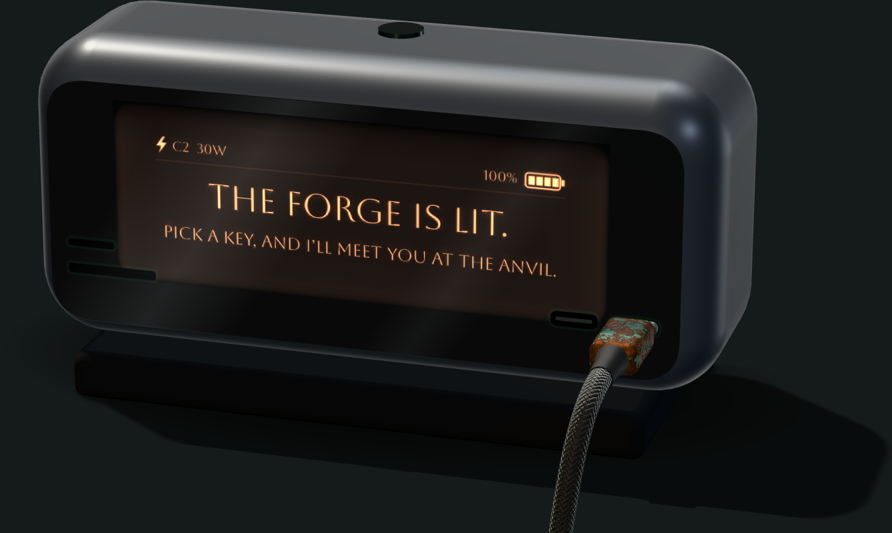
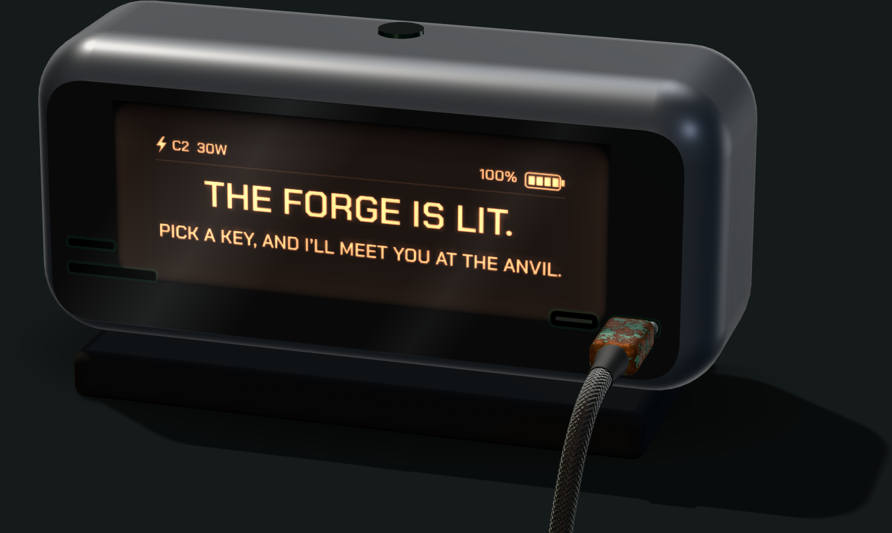
Hub display: Chakra Petch lettering (Mike's pick, option D)
The thin Aboreto made the screen's second line nearly unreadable. The display
now uses Chakra Petch 600, a squared digital face, rendered sharper. It lives
only inside the hub render; AGENTS records the exception.

Claude-Session: https://claude.ai/code/session_014kgsP4zXbR91SpjPr6JWR2

Changed region(s): [[0.1816, 0.3302, 0.6357, 0.5403], [0.1816, 0.2402, 0.2724, 0.3002], [0.5448, 0.3002, 0.5751, 0.3602]]

diff --git a/mockups/keys/render-hub.html b/mockups/keys/render-hub.html
@@ -1,6 +1,6 @@
 <!doctype html>
 <html><head><meta charset="utf-8">
-<link href="https://fonts.googleapis.com/css2?family=Cinzel:wght@700&family=Aboreto&display=swap" rel="stylesheet">
+<link href="https://fonts.googleapis.com/css2?family=Cinzel:wght@700&family=Aboreto&family=Michroma&family=Chakra+Petch:wght@600&family=Rajdhani:wght@600&display=swap" rel="stylesheet">
 <style>html,body{margin:0;background:transparent}canvas{display:block}</style>
 <script type="importmap">{ "imports": { "three": "./node_modules/three/build/three.module.js", "three/addons/": "./node_modules/three/examples/jsm/" } }</script>
 </head><body>
@@ -182,7 +182,7 @@ function screenTex(lines, on, scale = 1) {
   g.scale(scale, scale); g.fillStyle = '#000'; g.fillRect(0, 0, 2760, 900);
   if (on) { g.fillStyle = '#fff'; g.strokeStyle = '#fff'; g.textBaseline = 'middle';
     // status bar: charging port on the left, a full battery on the right, a hairline under it
-    g.font = '400 86px Aboreto'; g.textAlign = 'left';
+    g.font = FONT.status; g.textAlign = 'left';
     g.beginPath(); g.moveTo(150, 72); g.lineTo(108, 134); g.lineTo(140, 134); g.lineTo(122, 184); g.lineTo(176, 112); g.lineTo(142, 112); g.lineTo(166, 72); g.closePath(); g.fill();   // bolt
     g.fillText('C2  30W', 210, 132);
     g.textAlign = 'right'; g.fillText('100%', 2370, 132);
@@ -190,8 +190,8 @@ function screenTex(lines, on, scale = 1) {
     for (let i = 0; i < 4; i++) g.fillRect(2438 + i * 48, 106, 38, 56);                                                              // four full bars
     g.globalAlpha = 0.45; g.fillRect(100, 225, 2560, 5); g.globalAlpha = 1;
     g.textAlign = 'center';
-    g.font = '400 220px Aboreto'; g.fillText(lines[0].toUpperCase(), 1380, 440);
-    let sz = 150; g.font = `400 ${sz}px Aboreto`; while (g.measureText(lines[1].toUpperCase()).width > 2760 * 0.93) { sz -= 4; g.font = `400 ${sz}px Aboreto`; }
+    g.font = FONT.l1; g.fillText(lines[0].toUpperCase(), 1380, 440);
+    let sz = FONT.l2size; g.font = `${FONT.l2} ${sz}px ${FONT.l2family}`; while (g.measureText(lines[1].toUpperCase()).width > 2760 * 0.93) { sz -= 4; g.font = `${FONT.l2} ${sz}px ${FONT.l2family}`; }
     g.fillText(lines[1].toUpperCase(), 1380, 700); }
   const t = new THREE.CanvasTexture(c); t.colorSpace = THREE.SRGBColorSpace; t.anisotropy = 8; return t; }
 function haloTex() { const c = document.createElement('canvas'); c.width = 1024; c.height = 420; const g = c.getContext('2d');
@@ -226,14 +226,17 @@ scene.add(new THREE.AmbientLight(0xffffff, 0.12));
 const camera = new THREE.PerspectiveCamera(2 * Math.atan(3 * Math.tan(8.5 * Math.PI / 180)) * 180 / Math.PI, 3000 / 4500, 10, 3000); camera.up.set(0, 0, 1);
 camera.setViewOffset(3000, 4500, 0, 1800, 3000, 2700);
 camera.position.set(170, -560, 230); camera.lookAt(0, 0, 34);
-window.renderHub = async ({ on = true, glow = false, lines = ['', ''] } = {}) => {
-  await document.fonts.load('400 100px Aboreto');
+// the display's lettering: Chakra Petch, a squared digital face (Mike, 2026-10-07); it exists only inside this render
+let FONT = { status: '600 92px "Chakra Petch"', l1: '600 235px "Chakra Petch"', l2: '600', l2family: '"Chakra Petch"', l2size: 175 }, SHARP = 0.7;
+window.renderHub = async ({ on = true, glow = false, lines = ['', ''], font, sharp } = {}) => {
+  if (font) FONT = { ...FONT, ...font }; if (sharp) SHARP = sharp;
+  for (const f of [FONT.status, FONT.l1, `${FONT.l2} 100px ${FONT.l2family}`]) await document.fonts.load(f);
   if (screen) scene.remove(screen, halo, halo2, backlight, depth);
   backlight = onGlass(new THREE.Mesh(new THREE.PlaneGeometry(DW * 2 + 10, DH * 2 + 8), new THREE.MeshBasicMaterial({ color: '#2A1A12', alphaMap: backlightTex(), transparent: true, opacity: on ? 0.85 : 0, toneMapped: false, blending: THREE.AdditiveBlending, depthWrite: false })), 0, 3, 0.11);
   const add = (tex, color, opacity) => onGlass(new THREE.Mesh(new THREE.PlaneGeometry(DW * 2, DH * 2), new THREE.MeshBasicMaterial({ color, alphaMap: tex, transparent: true, opacity, toneMapped: false, blending: THREE.AdditiveBlending, depthWrite: false })), 0, 3, 0.15);
   // bloom: the same text drawn small and stretched back up (soft light around each letter), two radii
   halo = add(screenTex(lines, on, 0.08), LED, 0.55); halo2 = add(screenTex(lines, on, 0.025), LED, 0.35);
-  screen = add(screenTex(lines, on, 0.45), '#F09A62', 0.95);                      // LCD letters: soft, even amber, not a neon core
+  screen = add(screenTex(lines, on, SHARP), '#F09A62', 0.95);                     // LCD letters: soft, even amber, not a neon core
   // the glass sits in front of the panel: a thin shadow under the display's top edge
   depth = onGlass(new THREE.Mesh(new THREE.PlaneGeometry(DW * 2 + 10, DH * 2 + 8), new THREE.MeshBasicMaterial({ color: '#000000', alphaMap: depthTex(), transparent: true, opacity: on ? 0.7 : 0, depthWrite: false })), 0, 3, 0.2);
   // glow pass: only the braid's inner light shows, everything else black (neutral under a screen blend)

diff --git a/build.js b/build.js
@@ -2,7 +2,7 @@ const fs = require("node:fs");
 const path = require("node:path");
 
 const config = Object.freeze({
-  stylesheetVersion: "vg-29-header-pulse",
+  stylesheetVersion: "vg-30-hub-font",
   siteTitle: "Yoru Foundry",
   SITE_MODE: "prelaunch",
   // Cloudflare Turnstile site key (public). Empty = no widget; the Worker's TURNSTILE_SECRET must be set with it.

diff --git a/AGENTS.md b/AGENTS.md
@@ -78,6 +78,7 @@ Rules:
 - Body copy, long-form, captions, and notes: **Alegreya**.
 - Spec numbers use tabular figures. No monospace font as a "technical" costume.
 - Do not add **Inter**. Cormorant Garamond, Manrope, Archivo and Source Serif 4 are retired.
+- **Exception: the hub display** (Mike, 2026-10-07). The lettering on the homepage hub's rendered screen is **Chakra Petch** 600, a squared digital face. It exists only baked into that render (`mockups/keys/render-hub.html`); never load it as a page font or use it anywhere else.
 - Cinzel and Aboreto are capital-only faces, so headings and labels read as capitals; keep body copy in Alegreya so pages never become all capitals. No extra letter-spacing on labels (no spaced-capital eyebrows).
 - Minimum text size 12px. `font-synthesis: none` so single-weight faces are never faked bold.
 - Chosen by Mike on 2026-10-06 after five font rounds (`mockups/fonts.html`, `mockups/fonts-home-*.png`).

diff --git a/YORU_SITE_MEMORY.md b/YORU_SITE_MEMORY.md
@@ -159,7 +159,7 @@ commission-yf-001.
 - The closing section keeps "One builder. One conversation. One considered result." and its paragraph; the copper
   key and Why Yoru link were removed (the footer keyboard covers both). The line "The forge is lit. Pick a key, and
   I’ll meet you at the anvil." (Mike) is on the backlit display of a rendered space-grey USB dock (Mike's
-  Anker-style reference, no branding; Aboreto letters, a status bar with a C2 30W readout and a full battery). The
+  Anker-style reference, no branding; Chakra Petch letters (Mike picked option D from `mockups/hub-fonts.png`), a status bar with a C2 30W readout and a full battery). The
   braided cable is plugged into the front-right port and hangs in a loose S into the keyboard. The display fades on;
   a copper bead travels the cable once going down (never back up) and lights the board when it arrives.
 
